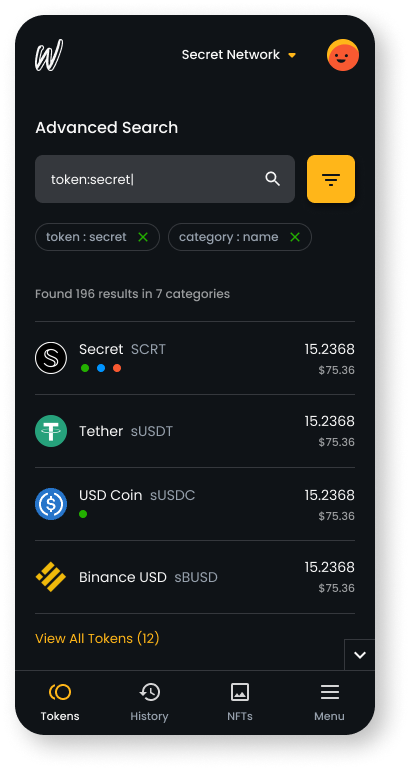
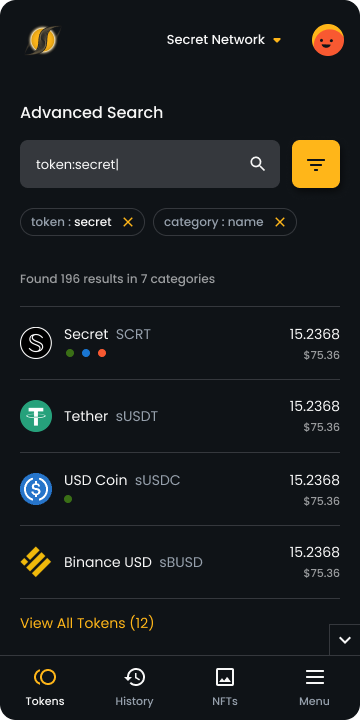
fix: media

Changed region(s): [[0.0, 0.0, 1.0, 1.0], [0.4278, 0.3056, 0.7333, 0.3361], [0.0917, 0.275, 0.3667, 0.3361]]

diff --git a/index.html b/index.html
@@ -20,8 +20,8 @@
   <meta property="og:description" content="Privacy-preserving, FOSS web3 wallet built for the Secret Network and greater Cosmos ecosystem">
   <meta name="twitter:description" content="Privacy-preserving, FOSS web3 wallet built for the Secret Network and greater Cosmos ecosystem" />
 
-  <link rel="icon" type="image/svg+xml" href="/media/favicon.svg">
-  <link rel="icon" type="image/png" href="/media/favicon.png">
+  <link rel="icon" type="image/svg+xml" href="/media/logo-02.svg">
+  <link rel="icon" type="image/png" href="/media/logo-dark.png">
 
   <!-- <link rel="stylesheet/less" type="text/css" href="/less/styles.less" /> -->
   <link rel="stylesheet" type="text/css" href="/css/styles.css" />
